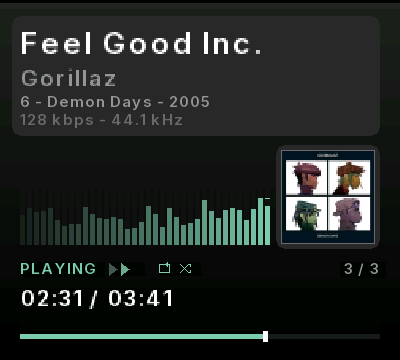
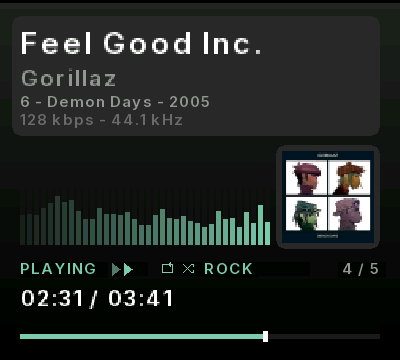
README: current screenshot, and shrink it 99% losslessly
The screenshot now shows the shipped UI -- the EQ preset name (ROCK) sits in
the mode row beside the repeat and shuffle icons, which the previous image
predated. Alt text rewritten to describe what is actually in the frame rather
than the old one.

Also recompressed it: 1,061,865 -> 13,373 bytes, a 99% reduction, verified
pixel-identical before and after. A 400x360 capture of flat UI colours has no
business being a megabyte in a repository. Left as truecolour rather than
palettised -- 256 colours would be smaller again but the image has 818, so that
would be lossy on the gradients for no useful gain.

diff --git a/README.md b/README.md
@@ -134,7 +134,7 @@ on screen counts what will actually play, not how many lines are in the file.
 
 ## What it shows
 
-<img src="docs/screenshot.png" width="280" align="right" alt="Now-playing screen: title, artist, album and bitrate above a bar meter, with cover art at the right; below, a PLAYING label with repeat and shuffle icons, the track position, elapsed and total time, and a progress bar">
+<img src="docs/screenshot.png" width="280" align="right" alt="Now-playing screen: Feel Good Inc. by Gorillaz, album Demon Days 2005, 128 kbps 44.1 kHz, above a bar meter with the album cover at the right; below, a PLAYING label with repeat and shuffle icons and the EQ preset ROCK, track 4 of 5, 02:31 of 03:41, and a progress bar">
 
 - **Title and artist** from the ID3v2 tag, in a real proportional typeface with
   anti-aliased text.
